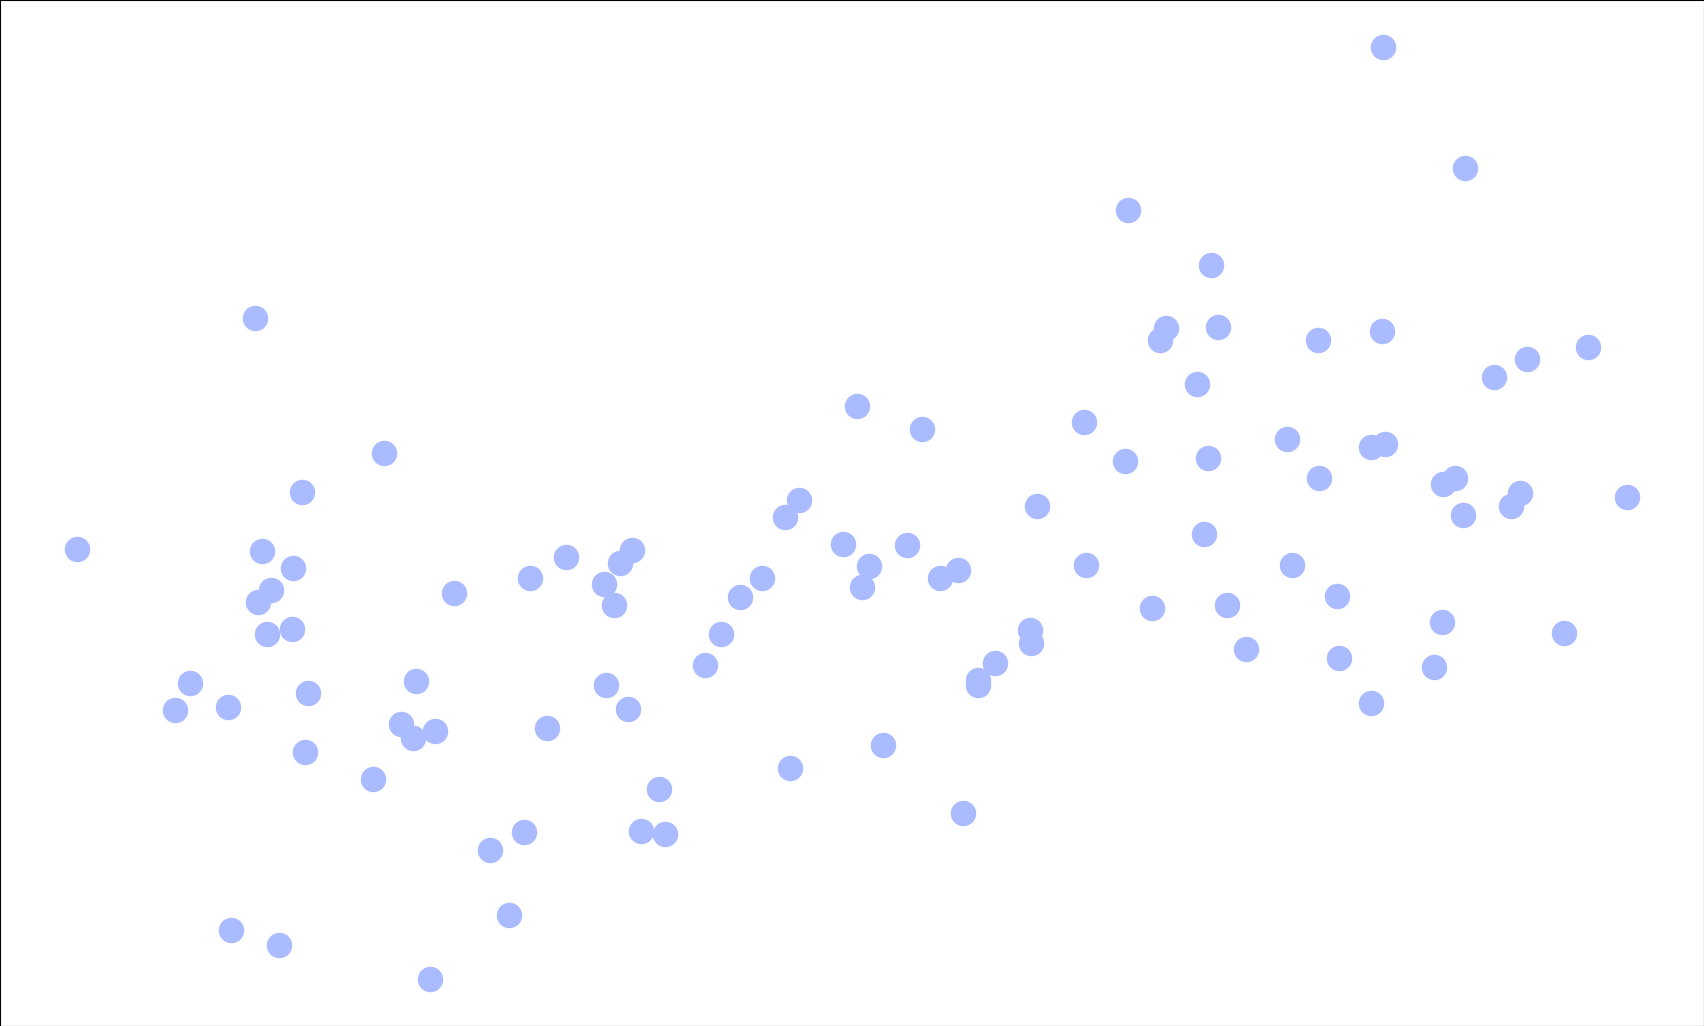
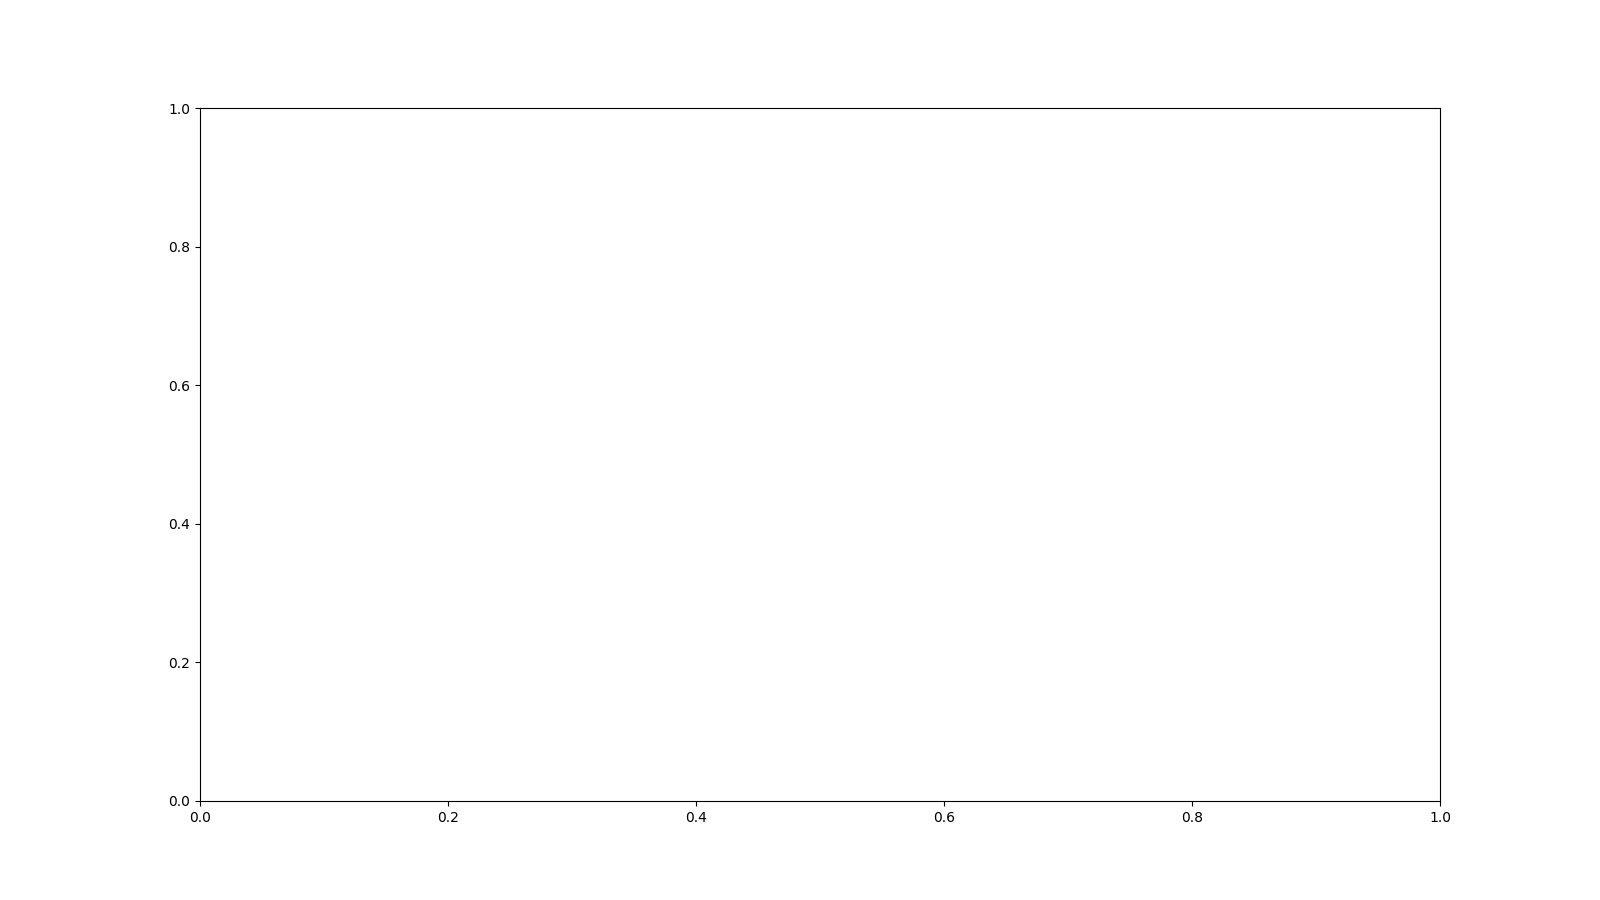
- Combo box for component waves added. Need to respond to changes in the   index

diff --git a/src/WaveGrapher.py b/src/WaveGrapher.py
@@ -194,8 +194,8 @@ class WaveView(QMainWindow):
     def showComponentGraph(self, keyIndex:int):
         self.workspaceWidget.showComponentGraph(keyIndex)
 
-    def toggleSelectedButton(self, key:int):
-        self.workspaceWidget.toggleSelectedButton(key)
+    def toggleSelected(self, key:int):
+        self.workspaceWidget.toggleSelected(key)
 
     def graphComponentWaveform(self, key, x, y, interp_x, interp_y, sine_x, sine_y):
         self.workspaceWidget.graphComponentWaveform(key, x, y, interp_x, interp_y, sine_x, sine_y)
@@ -366,13 +366,14 @@ class WorkspaceWidget(QWidget):
         currentKey = self.componentGraph.getKeyIndex()
         if currentKey == key:
             # Don't do anything if the button was clicked except retoggle the button
-            self.catalogWidget.toggleSelectedButton(currentKey)
+            self.catalogWidget.toggleSelected(currentKey)
             return
-        self.catalogWidget.untoggleSelectedButton(currentKey)
+        self.catalogWidget.untoggleSelected(currentKey)
         self.componentGraph.setKeyIndex(key)
         self.componentGraph.setTitle(self.catalogWidget.getTitle(key))
         self.emitGraphSignal(key)
         self.emitAdjustParameterWidgets(key)
+        self.showComponentGraph(key)
 
     def setCurrentlyPlayingStatus(self):
         self.componentGraph.setCurrentlyPlayingStatus()
@@ -412,10 +413,10 @@ class WorkspaceWidget(QWidget):
             return
         new_key = ((key - 1) % count) + 1
         self.switchComponentGraph(new_key)
-        self.catalogWidget.toggleSelectedButton(new_key)
+        self.catalogWidget.toggleSelected(new_key)
 
-    def toggleSelectedButton(self, key:int):
-        self.catalogWidget.toggleSelectedButton(key)
+    def toggleSelected(self, key:int):
+        self.catalogWidget.toggleSelected(key)
 
     def clearComponentGraph(self):
         self.componentGraph.clearGraph()
@@ -503,7 +504,7 @@ class WorkspaceWidget(QWidget):
 
     def addWaveToCatalog(self, keyIndex:int, name:str):
         self.catalogWidget.addWaveWidgetToCatalog(keyIndex, name)
-        self.catalogWidget.untoggleSelectedButton(self.componentGraph.getKeyIndex())
+        self.catalogWidget.untoggleSelected(self.componentGraph.getKeyIndex())
         self.componentGraph.setKeyIndex(keyIndex)
         self.waveformNameInputWidget.closeWindowAndClearInput()
 
@@ -1248,12 +1249,14 @@ class WaveformCatalogWidget(QWidget):
     switchToMainSignal = Signal()
     switchToComponentSignal = Signal()
     switchComponentIndex = Signal(int)
+    deleteComponentSignal = Signal()
 
     def __init__(self):
         super().__init__()
         self.vboxLayout = QVBoxLayout(self)
         self.vboxLayout.setSpacing(0)
         self.labeledWavesDict = {}
+        self.catalogComboBox = QComboBox()
         self.catalogSection = QWidget()
         self.catalogVBox = QVBoxLayout(self.catalogSection)
         self.addWaveButton = QPushButton("+")
@@ -1265,6 +1268,7 @@ class WaveformCatalogWidget(QWidget):
         self.toggleGraphButton = QPushButton("Component")
 
         self.vboxLayout.insertWidget(-1, self.toggleGraphButton)
+        self.vboxLayout.insertWidget(-1, self.catalogComboBox)
         self.vboxLayout.addStretch()
         self.vboxLayout.insertWidget(-1, self.catalogSection)
         self.vboxLayout.insertWidget(-1, self.addWaveButton)
@@ -1274,12 +1278,19 @@ class WaveformCatalogWidget(QWidget):
         self.addWaveButton.clicked.connect(self.emitInitiateAddCatalogWave)
         self.addRandomWavesButton.clicked.connect(self.emitInitiateAddRandomWaves)
         self.toggleGraphButton.clicked.connect(self.emitSwapGraphs)
+
+        # Actions
+        deleteAction = QAction("&Delete Component", self, shortcut="Ctrl+d", triggered=self.emitInitiateDeletion)
+        self.addAction(deleteAction)
     
     def emitInitiateAddCatalogWave(self, event):
         self.initiateCatalogAdditionSignal.emit(event)
 
     def emitInitiateAddRandomWaves(self):
         self.initiateRandWaveAdditionSignal.emit()
+
+    def emitInitiateDeletion(self):
+        self.deleteComponentSignal.emit()
 
     def getTitle(self, keyIndex:int):
         return self.labeledWavesDict.get(keyIndex, {}).get("name", "Oscillator")
@@ -1305,20 +1316,28 @@ class WaveformCatalogWidget(QWidget):
             "name": name,
             "widget": button 
         }
-        self.vboxLayout.addWidget(button)
+        self.catalogVBox.addWidget(button)
+        self.catalogComboBox.addItem(name)
         button.clicked.connect(lambda: self.switchComponentIndex.emit(keyIndex))
         self.emitSwapGraphs(keyIndex)
 
     def emitSwapGraphs(self, keyIndex):
         self.swapGraphsSignal.emit(keyIndex)
 
-    def untoggleSelectedButton(self, key:int):
+    def untoggleSelected(self, key:int):
         button = self.getButton(key)
+        self.displayComboKey(key)
         if button:
             button.setCheckable(True)
             button.setChecked(False)
 
-    def toggleSelectedButton(self, key:int):
+    def toggleSelected(self, key:int):
         button = self.getButton(key)
+        self.displayComboKey(key)
         if button:
             button.setChecked(True)
+
+    def displayComboKey(self, key:int):
+        self.catalogComboBox.blockSignals(True)
+        self.catalogComboBox.setCurrentIndex(key - 1)
+        self.catalogComboBox.blockSignals(False)

diff --git a/src/wave_controller.py b/src/wave_controller.py
@@ -229,7 +229,7 @@ class WaveController:
             self.clearComponentGraph()
             self.adjustParameterWidgets(self.keyIndexCounter)
             self.view.swapGraphs()
-            self.view.toggleSelectedButton(self.keyIndexCounter)
+            self.view.toggleSelected(self.keyIndexCounter)
             self.keyIndexCounter += 1
         else:
             self.view.displayDupNameErrMsg()
